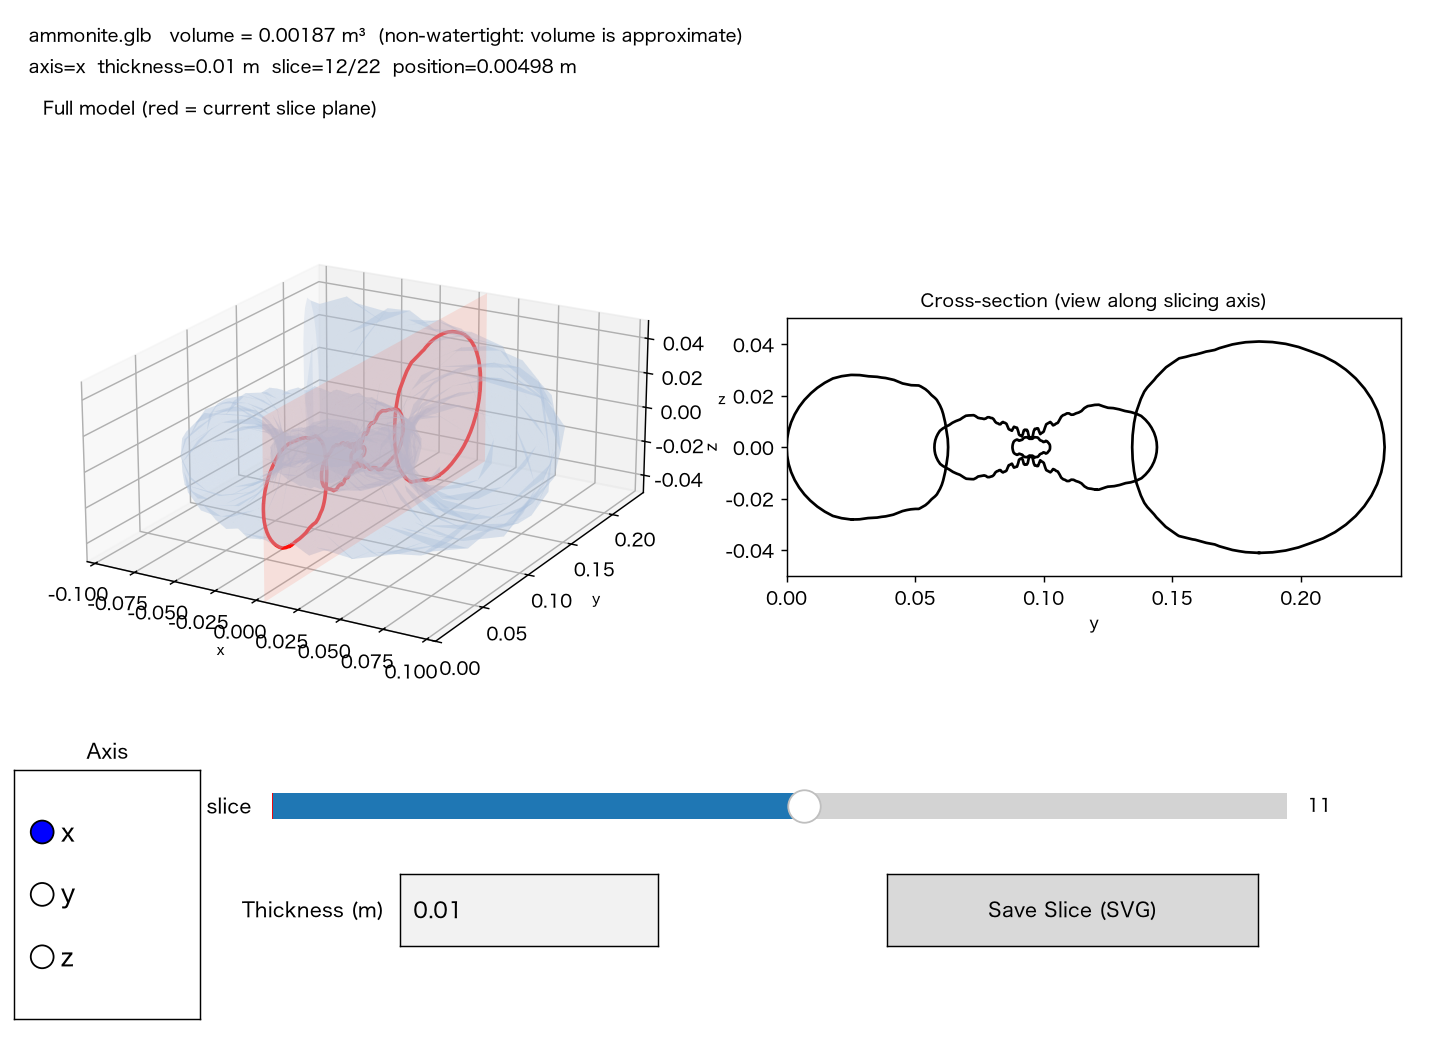
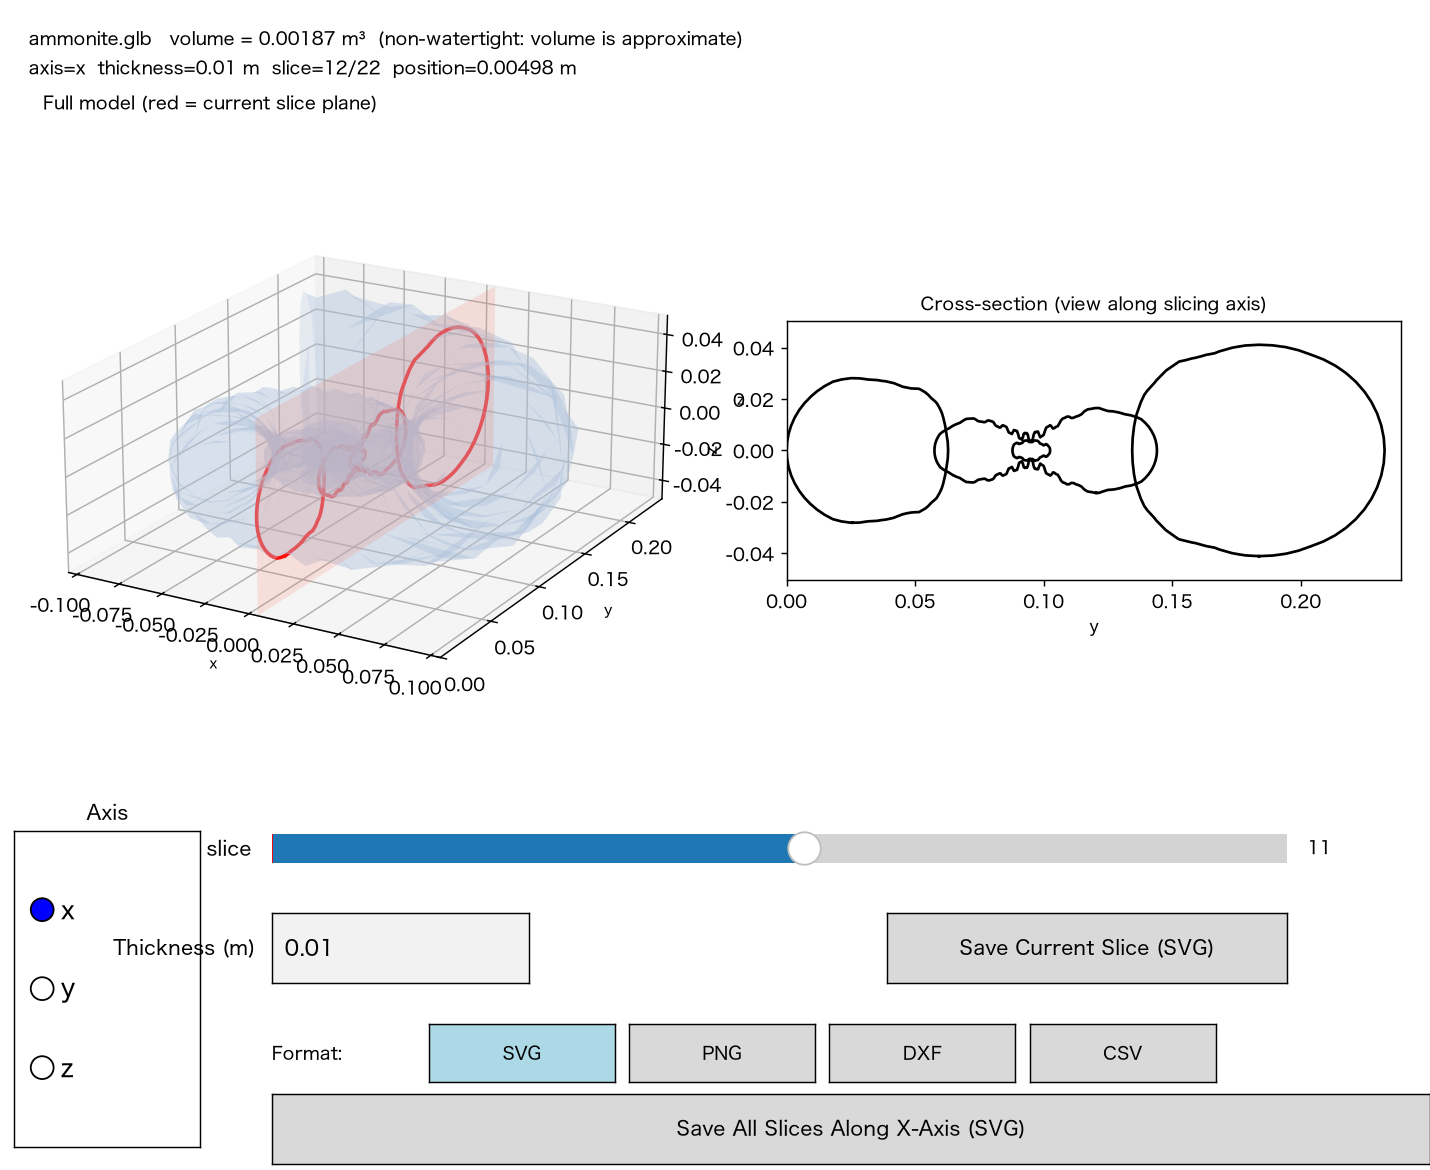
Add Save All Slices button and export format selector to GUI
現在選択中の軸・thickness設定のまま全断面を一括出力する "Save All Slices" ボタンと、
SVG/PNG/DXF/CSVを切り替えるFormatボタンを追加。Save Current SliceもFormat選択に従うよう変更。
--formatでCLIから初期フォーマットを指定可能。

hide

diff --git a/src/slice3d/gui.py b/src/slice3d/gui.py
@@ -54,6 +54,7 @@ _MAX_PREVIEW_FACES = 4_000
 _UNITS_BY_EXTENSION = {".glb": "m", ".gltf": "m"}
 
 _AXIS_NAMES = ("x", "y", "z")
+_FORMATS = ("svg", "png", "dxf", "csv")
 
 
 def _default_units(model_path: Path) -> str:
@@ -83,6 +84,7 @@ class SliceViewer:
         thickness: float | None = None,
         max_preview_faces: int = _MAX_PREVIEW_FACES,
         units: str | None = None,
+        fmt: str = "svg",
     ):
         self.model_path = Path(model_path)
         self.mesh = core.load_mesh(self.model_path)
@@ -90,6 +92,10 @@ class SliceViewer:
         self.volume = float(self.mesh.volume)
         self.max_preview_faces = max_preview_faces
         self.units = _default_units(self.model_path) if units is None else units
+        if fmt not in _FORMATS:
+            raise ValueError(f"fmt は {list(_FORMATS)} のいずれかである必要があります: {fmt!r}")
+        self.format = fmt
+        self._format_buttons: dict[str, Button] = {}
 
         if thickness is None:
             extent = self.mesh.extents[core.AXES[axis]]
@@ -156,16 +162,16 @@ class SliceViewer:
 
     # ---- UI構築 ----
     def _build_ui(self) -> None:
-        self.fig = plt.figure(figsize=(11, 8))
+        self.fig = plt.figure(figsize=(11, 9))
         try:
             self.fig.canvas.manager.set_window_title(f"slice3d viewer - {self.model_path.name}")
         except AttributeError:
             pass
 
-        self.ax_3d = self.fig.add_axes((0.03, 0.28, 0.45, 0.58), projection="3d")
+        self.ax_3d = self.fig.add_axes((0.03, 0.34, 0.45, 0.55), projection="3d")
         self._draw_static_mesh()
 
-        self.ax_section = self.fig.add_axes((0.55, 0.28, 0.43, 0.58))
+        self.ax_section = self.fig.add_axes((0.55, 0.34, 0.43, 0.55))
         self.ax_section.set_aspect("equal")
         self.ax_section.set_title("Cross-section (view along slicing axis)", fontsize=10)
 
@@ -175,15 +181,15 @@ class SliceViewer:
             f"{self.model_path.name}   volume = {self._fmt_volume(self.volume)}{watertight_note}",
             fontsize=10, va="top",
         )
-        self.pos_text = self.fig.text(0.02, 0.945, "", fontsize=10, va="top")
+        self.pos_text = self.fig.text(0.02, 0.95, "", fontsize=10, va="top")
         self.fig.text(
-            0.03, 0.905, "Full model (red = current slice plane)", fontsize=10, va="top"
+            0.03, 0.92, "Full model (red = current slice plane)", fontsize=10, va="top"
         )
 
         # ラジオボタンは既定だと丸のサイズ・クリック領域が小さく押しづらいため、
         # 専用エリアを広めに取った上で radio_props/label_props でマーカーと
         # フォントを拡大している。
-        ax_radio = self.fig.add_axes((0.01, 0.02, 0.13, 0.24))
+        ax_radio = self.fig.add_axes((0.01, 0.02, 0.13, 0.27))
         ax_radio.set_title("Axis", fontsize=11)
         self.radio = RadioButtons(
             ax_radio,
@@ -194,22 +200,39 @@ class SliceViewer:
         )
         self.radio.on_clicked(self._on_axis_change)
 
+        self.ax_slider = self.fig.add_axes((0.19, 0.25, 0.71, 0.05))
+        # スライダーのつまみも既定サイズだと掴みづらいので大きくする
+        # (トラック自体はどこをクリックしてもその位置へ移動できる)。
+        self._slider_handle_style = {"size": 18}
+
         thickness_label = f"Thickness ({self.units})  " if self.units else "Thickness  "
-        ax_thickness = self.fig.add_axes((0.28, 0.09, 0.18, 0.07))
+        ax_thickness = self.fig.add_axes((0.19, 0.16, 0.18, 0.06))
         self.thickness_box = TextBox(ax_thickness, thickness_label, initial=f"{self.thickness:g}")
         self.thickness_box.text_disp.set_fontsize(12)
         self.thickness_box.label.set_fontsize(11)
         self.thickness_box.on_submit(self._on_thickness_submit)
 
-        ax_save = self.fig.add_axes((0.62, 0.09, 0.26, 0.07))
-        self.save_button = Button(ax_save, "Save Slice (SVG)")
-        self.save_button.label.set_fontsize(11)
-        self.save_button.on_clicked(self._on_save)
+        ax_save_current = self.fig.add_axes((0.62, 0.16, 0.28, 0.06))
+        self.save_current_button = Button(ax_save_current, "")
+        self.save_current_button.label.set_fontsize(11)
+        self.save_current_button.on_clicked(self._on_save)
 
-        self.ax_slider = self.fig.add_axes((0.19, 0.2, 0.71, 0.05))
-        # スライダーのつまみも既定サイズだと掴みづらいので大きくする
-        # (トラック自体はどこをクリックしてもその位置へ移動できる)。
-        self._slider_handle_style = {"size": 18}
+        self.fig.text(0.19, 0.10, "Format:", fontsize=10, va="center")
+        format_x = (0.30, 0.44, 0.58, 0.72)
+        format_width = 0.13
+        for x, fmt in zip(format_x, _FORMATS):
+            ax_fmt = self.fig.add_axes((x, 0.075, format_width, 0.05))
+            button = Button(ax_fmt, fmt.upper())
+            button.label.set_fontsize(10)
+            button.on_clicked(lambda event, f=fmt: self._on_format_change(f))
+            self._format_buttons[fmt] = button
+
+        ax_save_all = self.fig.add_axes((0.19, 0.005, 0.81, 0.06))
+        self.save_all_button = Button(ax_save_all, "")
+        self.save_all_button.label.set_fontsize(11)
+        self.save_all_button.on_clicked(self._on_save_all)
+
+        self._refresh_format_buttons()
 
     def _preview_mesh(self):
         """3D表示専用の軽量化されたメッシュを返す(スライス計算には使わない)。"""
@@ -285,6 +308,7 @@ class SliceViewer:
         self.thickness = _nice_thickness(self.mesh.extents[core.AXES[label]])
         self.thickness_box.set_val(f"{self.thickness:g}")
         self._recompute_slices()
+        self._refresh_format_buttons()  # Save Allボタンのラベルに軸名が含まれるため更新
         self.fig.canvas.draw_idle()
 
     def _on_thickness_submit(self, text: str) -> None:
@@ -298,17 +322,51 @@ class SliceViewer:
         self._recompute_slices()
         self.fig.canvas.draw_idle()
 
+    def _on_format_change(self, fmt: str) -> None:
+        self.format = fmt
+        self._refresh_format_buttons()
+        self.fig.canvas.draw_idle()
+
+    def _refresh_format_buttons(self) -> None:
+        """選択中のフォーマットのボタンをハイライトし、保存ボタンのラベルを更新する。"""
+        for fmt, button in self._format_buttons.items():
+            selected = fmt == self.format
+            button.color = "lightblue" if selected else "0.85"
+            button.hovercolor = "skyblue" if selected else "0.95"
+            button.ax.set_facecolor(button.color)
+        self.save_current_button.label.set_text(f"Save Current Slice ({self.format.upper()})")
+        self.save_all_button.label.set_text(f"Save All Slices Along {self.axis.upper()}-Axis ({self.format.upper()})")
+
+    def _outdir(self) -> Path:
+        outdir = self.model_path.parent / "slices_gui"
+        outdir.mkdir(exist_ok=True)
+        return outdir
+
     def _on_save(self, event) -> None:
         index = int(self.slider.val)
         path_2d, _discrete_3d = self._section_at(index)
         if path_2d is None:
             print("Cannot save: no intersection at this slice position")
             return
-        outdir = self.model_path.parent / "slices_gui"
-        outdir.mkdir(exist_ok=True)
-        outpath = outdir / f"{self.model_path.stem}_{self.axis}{index:04d}_{self.heights[index]:.4f}.svg"
-        core.save_section(path_2d, outpath)
+        outdir = self._outdir()
+        outpath = outdir / f"{self.model_path.stem}_{self.axis}{index:04d}_{self.heights[index]:.4f}.{self.format}"
+        core.save_section(path_2d, outpath, self.format)
         print(f"Saved: {outpath}")
+
+    def _on_save_all(self, event) -> None:
+        """現在の軸・thickness設定で全スライスを一括保存する(交差しない位置はスキップ)。"""
+        outdir = self._outdir()
+        written = core.slice_file(
+            self.model_path,
+            outdir,
+            axis=self.axis,
+            thickness=self.thickness,
+            fmt=self.format,
+        )
+        print(
+            f"Saved {len(written)}/{len(self.heights)} slices "
+            f"(axis={self.axis}, thickness={self._fmt_length(self.thickness)}, format={self.format}) to {outdir}"
+        )
 
     # ---- 描画 ----
     def _show_index(self, index: int) -> None:
@@ -381,6 +439,13 @@ def parse_args(argv: list[str] | None = None) -> argparse.Namespace:
         help=f"max face count for the 3D preview mesh (default: {_MAX_PREVIEW_FACES}); "
         "lower this if the 3D view feels slow",
     )
+    parser.add_argument(
+        "--format",
+        choices=_FORMATS,
+        default="svg",
+        help="initial export format for the Save buttons (default: svg); "
+        "can also be changed in the window",
+    )
     return parser.parse_args(argv)
 
 
@@ -392,6 +457,7 @@ def main(argv: list[str] | None = None) -> None:
         thickness=args.thickness,
         max_preview_faces=args.max_preview_faces,
         units=args.units,
+        fmt=args.format,
     )
     viewer.show()
 

diff --git a/tests/test_gui.py b/tests/test_gui.py
@@ -119,3 +119,77 @@ def test_viewer_save_writes_file(tmp_path):
     outdir = model_path.parent / "slices_gui"
     assert outdir.exists()
     assert any(outdir.iterdir())
+
+
+def test_viewer_default_format_is_svg(tmp_path):
+    model_path = make_sphere_file(tmp_path)
+    viewer = SliceViewer(model_path, axis="z", thickness=2.5)
+
+    assert viewer.format == "svg"
+
+
+def test_viewer_rejects_unknown_format(tmp_path):
+    model_path = make_sphere_file(tmp_path)
+    with pytest.raises(ValueError):
+        SliceViewer(model_path, axis="z", thickness=2.5, fmt="bmp")
+
+
+def test_viewer_format_change_updates_state_and_labels(tmp_path):
+    model_path = make_sphere_file(tmp_path)
+    viewer = SliceViewer(model_path, axis="z", thickness=2.5)
+
+    viewer._on_format_change("png")
+
+    assert viewer.format == "png"
+    assert "PNG" in viewer.save_current_button.label.get_text()
+    assert "PNG" in viewer.save_all_button.label.get_text()
+
+
+def test_viewer_save_current_respects_selected_format(tmp_path):
+    model_path = make_sphere_file(tmp_path)
+    viewer = SliceViewer(model_path, axis="z", thickness=2.5)
+    viewer._on_format_change("png")
+
+    middle = len(viewer.heights) // 2
+    viewer.slider.set_val(middle)
+    viewer._on_save(None)
+
+    outdir = model_path.parent / "slices_gui"
+    saved = list(outdir.iterdir())
+    assert saved
+    assert all(p.suffix == ".png" for p in saved)
+
+
+def test_viewer_save_all_writes_every_nonempty_slice(tmp_path):
+    model_path = make_sphere_file(tmp_path)
+    viewer = SliceViewer(model_path, axis="z", thickness=2.5)
+    viewer._on_format_change("csv")
+
+    viewer._on_save_all(None)
+
+    outdir = model_path.parent / "slices_gui"
+    saved = list(outdir.iterdir())
+    n_nonempty = sum(1 for h in range(len(viewer.heights)) if viewer._section_at(h)[0] is not None)
+    assert len(saved) == n_nonempty
+    assert all(p.suffix == ".csv" for p in saved)
+
+
+def test_viewer_save_all_covers_open_cross_sections():
+    """save all が、開いた断面(閉じたループにならない位置)も欠落なく
+    保存することを確認する回帰テスト。"""
+    outdir_marker = AMMONITE_PATH.parent / "slices_gui"
+    if outdir_marker.exists():
+        for p in outdir_marker.iterdir():
+            p.unlink()
+
+    viewer = SliceViewer(AMMONITE_PATH, axis="y", thickness=0.01, fmt="png")
+    try:
+        viewer._on_save_all(None)
+        saved_names = {p.name for p in outdir_marker.iterdir()}
+        # y=0.18付近(開いた断面)のファイルが含まれていること
+        assert any("0.1800" in name or "0.18" in name for name in saved_names)
+    finally:
+        if outdir_marker.exists():
+            for p in outdir_marker.iterdir():
+                p.unlink()
+            outdir_marker.rmdir()
